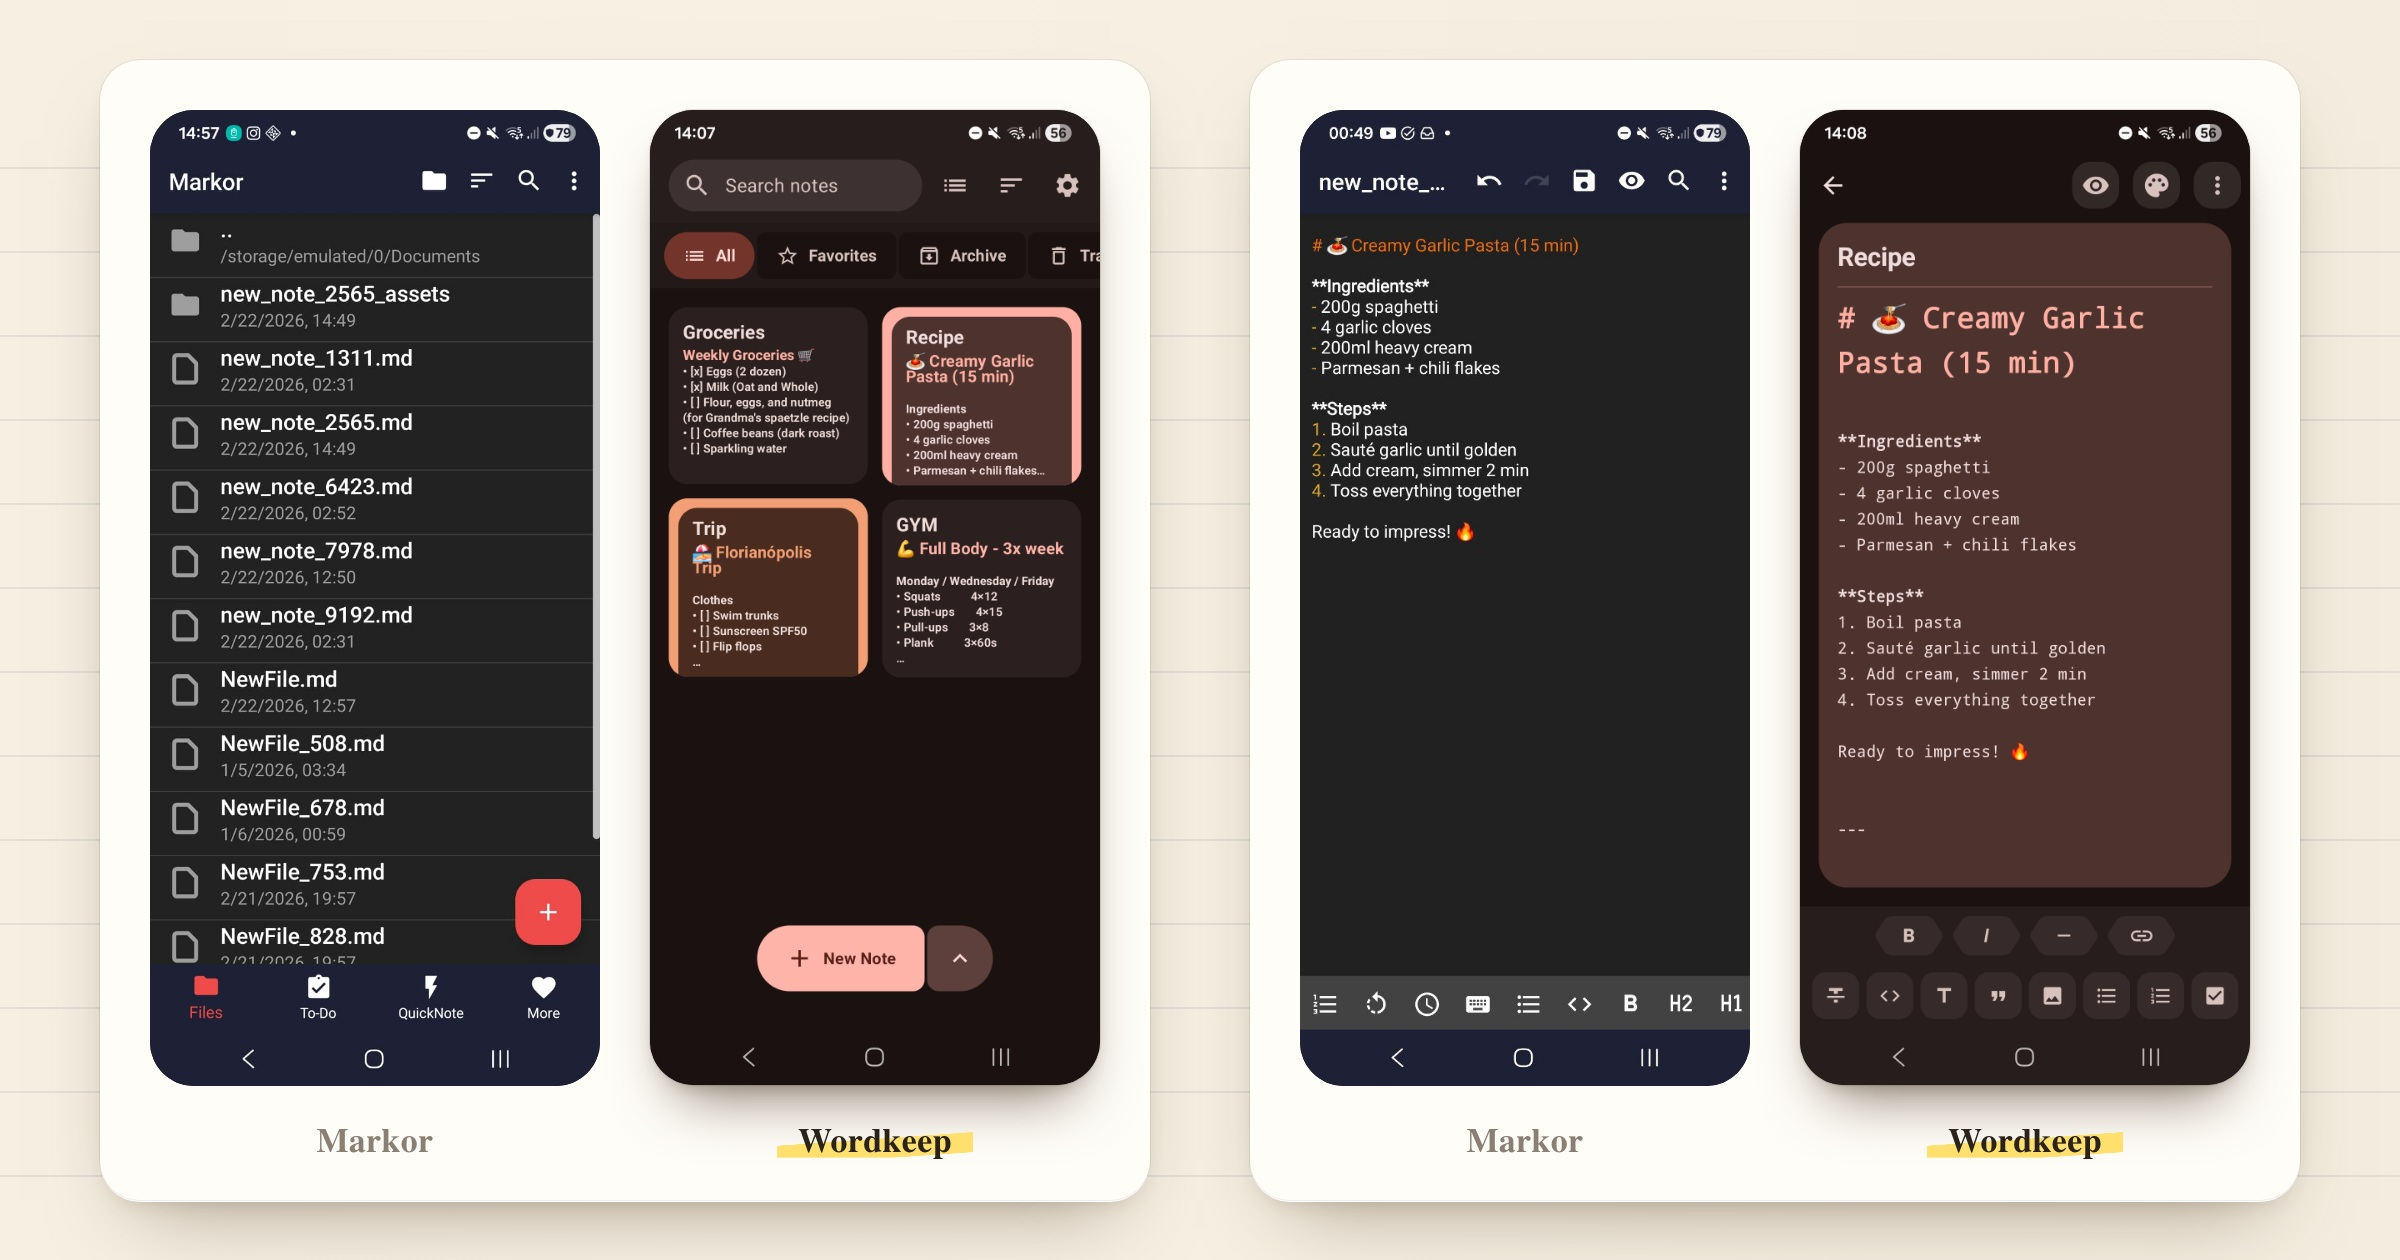
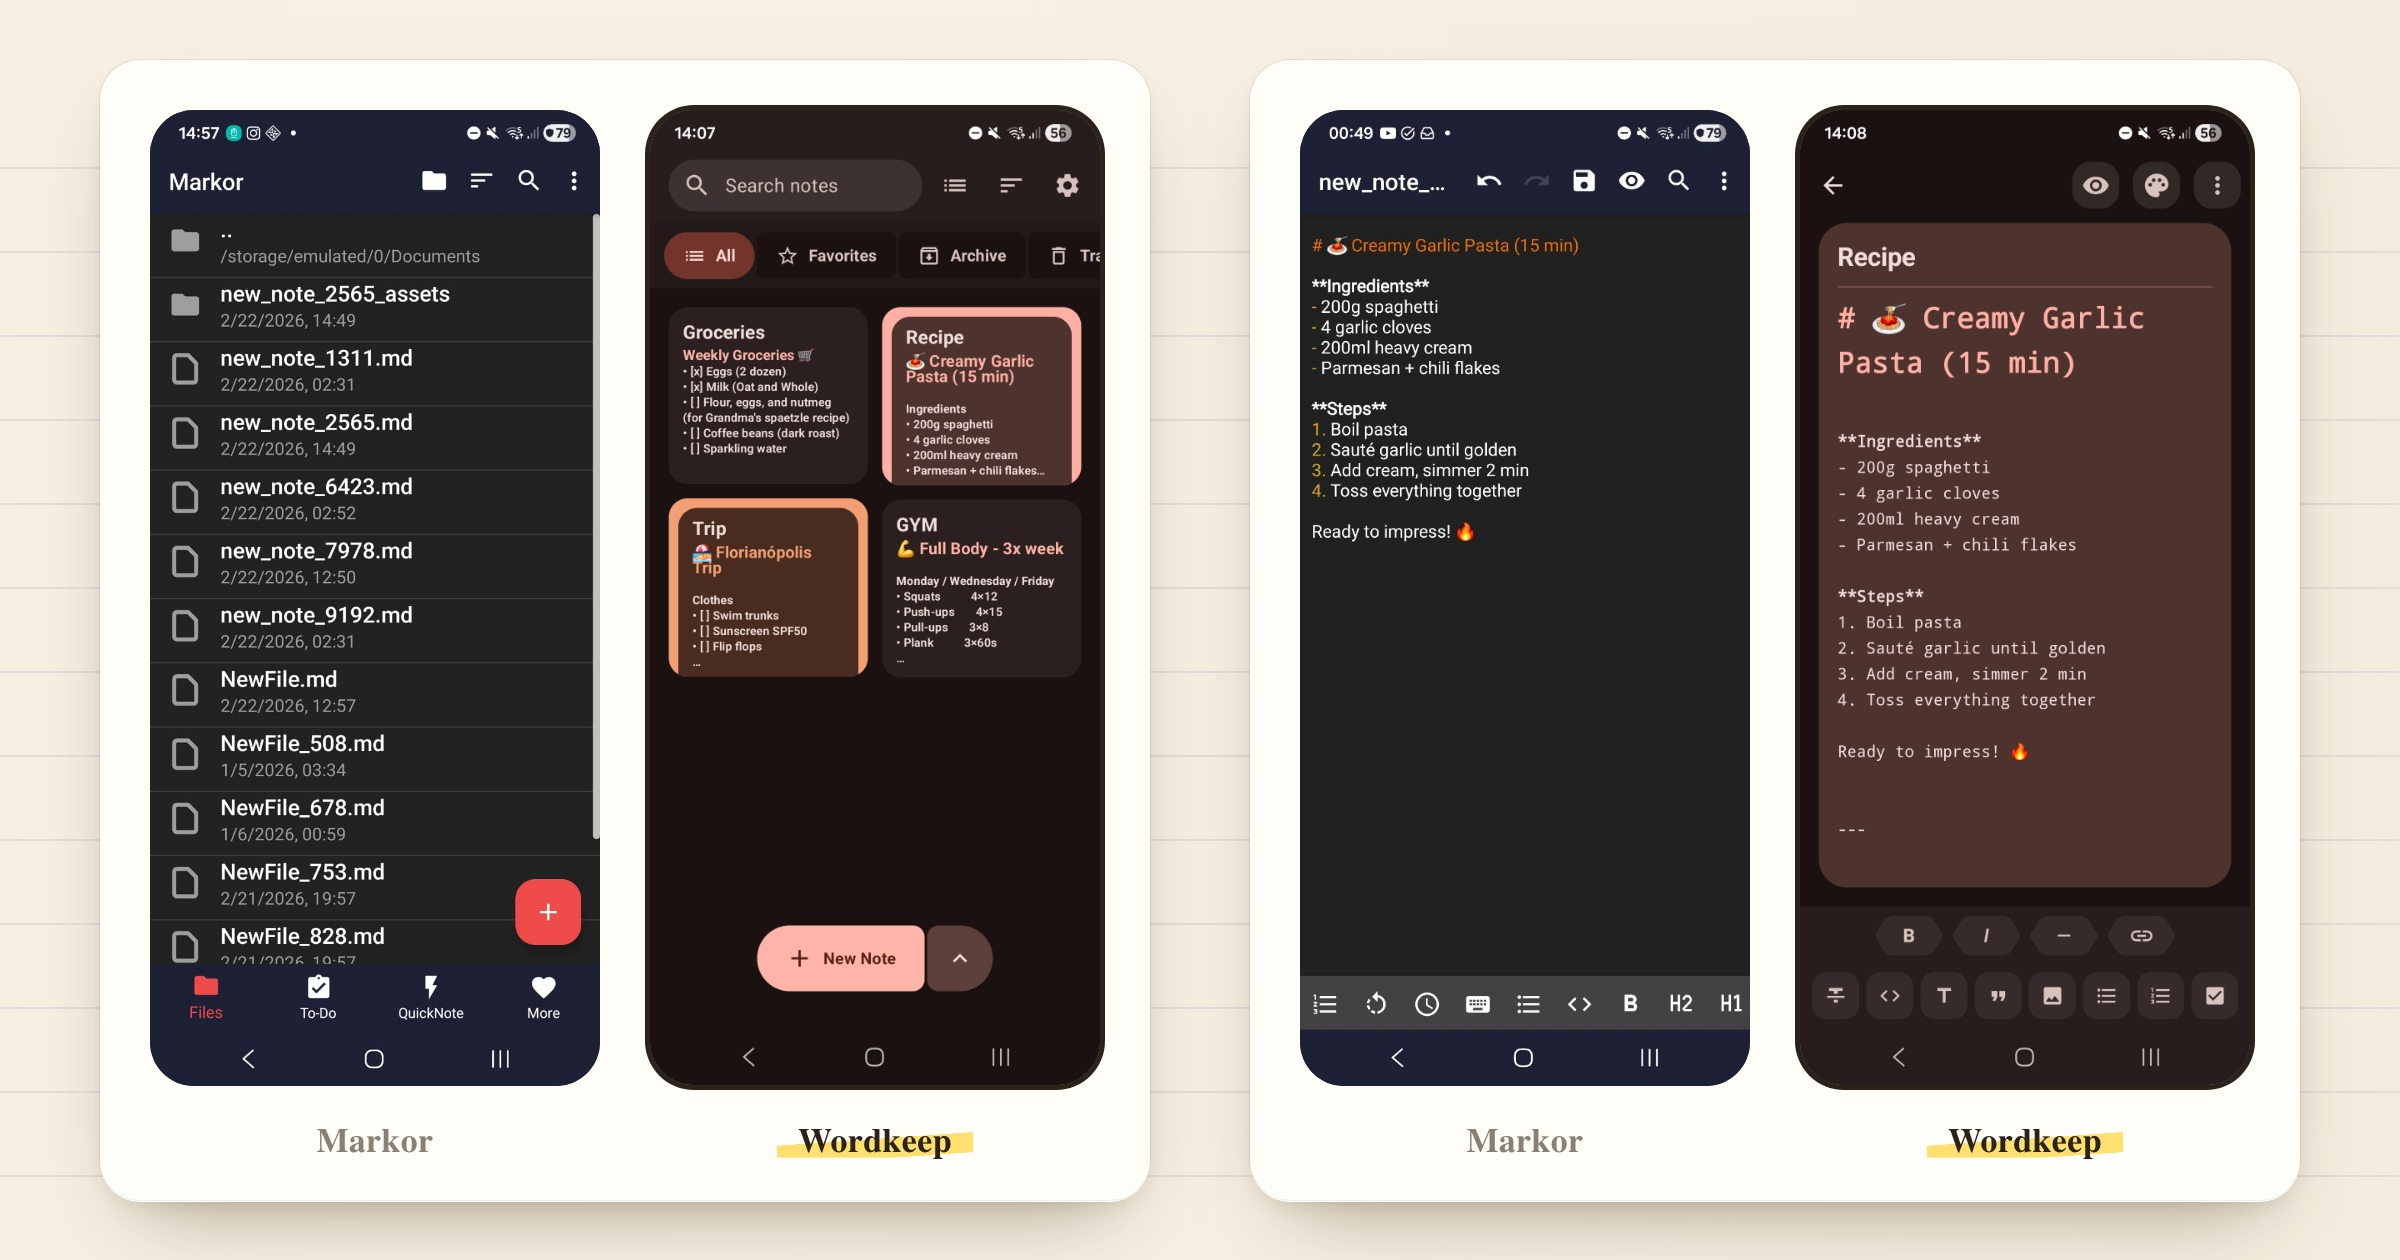
Outline the comparison screens with a border instead of a shadow

diff --git a/store-listing/theme.css b/store-listing/theme.css
@@ -65,7 +65,7 @@ header p{margin:28px 0 0;font-size:42px;line-height:1.28;font-weight:400;opacity
 /* Before and after: no device frames, just the two real screens side by side on the paper, the same size,
    on one baseline, each named by a small tag underneath. */
 .readme .compare .device{--bezel:0px;--radius:44px;width:450px;top:110px;background:none;
-  box-shadow:0 0 0 1px #2B22191f,0 34px 60px -26px #4a3420b0,0 8px 18px -10px #4a342060}
+  box-shadow:0 0 0 5px #2B2219}
 .readme .compare .device .screen{border-radius:44px;overflow:hidden}
 .readme .compare .pair1.before{left:150px}
 .readme .compare .pair1.after{left:650px}
